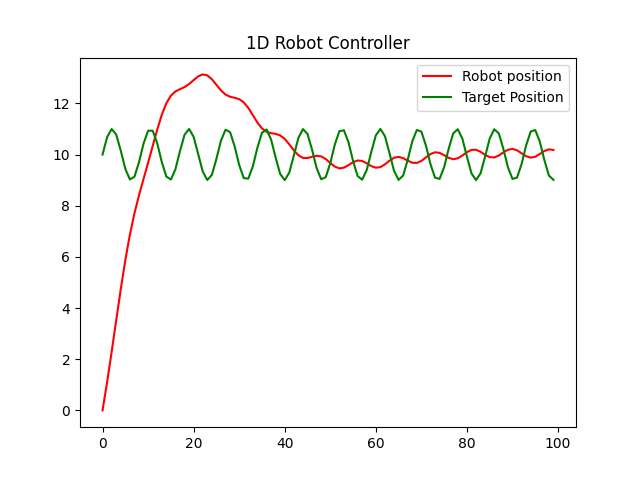
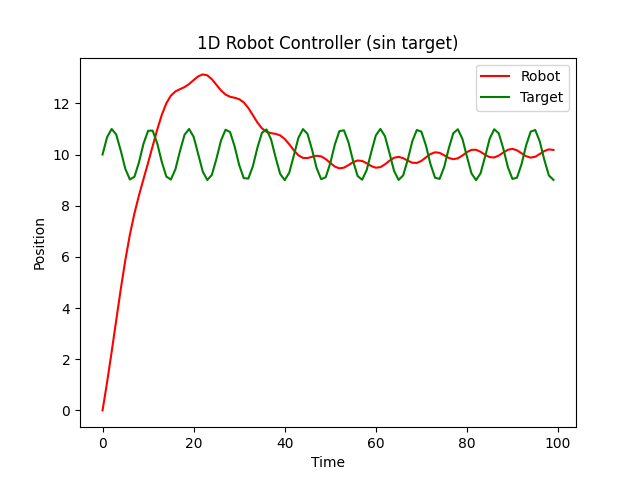
add more description, update pid images to label axes, addd images for politicians and suicide analysis

diff --git a/index.html b/index.html
@@ -13,33 +13,45 @@
             <!-- https://www.delftstack.com/howto/python/python-in-html/ -->
             <p>
                 Hello! I presume you're here to get a sense of who I am as a programmer, and what I've done in my own time. You can probably guess my name. <br><br>
-                I've been programming in Python for several years now, but also have experience in a number of other languages: SQL, Java, Matlab, C, and more recently, Javascript, HTML, and CSS. <br><br>
-                My Bachelor's Degree is in Applied Physics, where I learned to appreciate how the balancing of different effects leads to an observed outcome, and want to explore more in understanding complex systems. Hence, Simulations and Data analysis are two of my major programming interests. 
+                My interests in programming specifically are primarily in understanding and modeling cause and effect, simulating large systems, both of which are often inspired by physics problems, since my educational background is in Applied Physics. 
+                I'm aiming to pursue work in data science and robotics, and am particularly motivated to direct my work towards causes such as healthcare an renewable energy.<br><br>
+                I've been programming in Python for several years now, but also have experience in a number of other languages: SQL, Java, Matlab, C, and more recently, Javascript, HTML, and CSS, mostly for the ability to present information more easily.<br><br>
             </p>
             <span class="social"><a href="https://github.com/bkburgess"><img src="./images/github-mark/github-mark/github-mark-white.png" alt="github icon"></a></span>
             <span class="social"><a href="https://www.linkedin.com/in/bryceburgess/"><img src="./images/LinkedIn-Logos/LinkedIn-Logos/In/Digital/White/2x/In-White-128@2x.png" alt="linkedin icon"></a></span>
             <!--<span class="social"><a href="https://www.kaggle.com/bkburgess"><img src="./images/Kaggle-Logos/kaggle-logo-transparent-300.png" alt="kaggle icon"></a></span>-->
             <div class="project">
-                <h2><a href="https://github.com/bkburgess/BayesianOptimization">Exploratory Optimization</a></h2>
-                <div class="skills">Skills/Technologies: Python</div>
+                <h2></a>Exploratory Optimization</h2>
+                <div class="skills">
+                    Skills/Technologies: Python<br>
+                    Code: <a href="https://github.com/bkburgess/BayesianOptimization">https://github.com/bkburgess/BayesianOptimization</a>
+                </div>
                 <p class="summary">
+                    <p>
+                        I developed exploratory optimization after I was exposed to Bayesian Optimization during my work at Zoox, where BO was used extensively in tuning the hyperparameters for machine learning models.
+                        While working on reimplementing BO myself to better understand it, I was curious about whether I could model the uncertainty using a simple polynomial instead of a statistical spread over several smooth curves.
+                    </p>
                     <img src="images/project_examples/ExploratoryOptimization.png" style="width: 50%" alt="Plot of a complicated smooth curve, with sampled points highlighted, and a curve showing where to search next"><br>
-                    <caption>Example image of what exploratory optimization is doing in one dimension
+                    <caption>
+                        Example image of what exploratory optimization is doing in one dimension
                         The above plot is an example of what it looks like. The red curve is the true line that it's trying to search, and so is unknown to the actual algorithm.
                         The compound blue curve is the acquisition function that it uses to determine where to search next, and the green triangles are the points it has already sampled and adjusted the blue curve to fit.
                         The vertical black line shows where it will make its next guess, determined by the maximum of the acquisition function that isn't already within the samples.
                     </caption>
                     <h3>Bayesian Optimization Overview</h3>
-                    Bayesian Optimization is a search algorithm for finding the best place to sample for an expensive to calculate function. One of the most common applications for this method is in tuning the hyperparameters of machine learning models such as neural networks.
+                    Bayesian Optimization is a search algorithm for finding the best place to sample for an expensive to calculate function. 
+                    One of the most common applications for this method is in tuning the hyperparameters of machine learning models such as neural networks.
                     It usually uses a small sample of points to shepherd a collection tens of distinct smooth curves. 
                     Then for each point in the domain, you calculate the variance in the values given by the curves. 
-                    Because the curves converge at known points, and tend to spread out in between known points, the algorithm can balance prioritizing its search between exploiting the best values found so far, against the value of exploring new areas to gather more information. 
+                    Because the curves converge at known points, and tend to spread out in between known points, the algorithm can balance prioritizing its 
+                    search between exploiting the best values found so far, against the value of exploring new areas to gather more information. 
                     Additionally, this balance can be tuned with a single input parameter.<br>
                     
                     <h3>Exploratory Optimization</h3>
                     The exploratory_opt.py file was inspired by Bayesian Optimization, but instead of calculating the spread of a collection of smooth function, it just fits any one of several convex functions to pass through each pair of adjacent sampled points.
                     The resulting piecewise function can be used to achieve a similar overall result that balances exploiting the best samples found so far against exploring unknown areas, again tunable with a single parameter.
-                    This implementation uses a stand in function for the expensive function that it's supposed to be applied to, by composing several sine waves of different amplitudes and frequencies.
+                    This implementation uses a stand in function for the expensive function that it's supposed to be applied to, by composing several sine waves of different amplitudes and frequencies.<br>
+
 
                     <h3>Further work to do:</h3>
                     <ul>
@@ -57,10 +69,15 @@
                 </p>
             </div>
             <div class="project">
-                <h2><a href="https://github.com/bkburgess/PID">PID Controller</a></h2>
-                <div class="skills">Skills/Technologies: Python</div>
+                <h2>PID Controller</h2>
+                <div class="skills">
+                    Skills/Technologies: Python<br>
+                    Code: <a href="https://github.com/bkburgess/PID">https://github.com/bkburgess/PID</a>
+                </div>
                 <p class="summary">
-                    <!--TODO: how can I get these two images to be placed side by side?  -->
+                    <p>
+                        I've known about PID controllers long before I started implementing them here, as I've been interested in robotics and methods involving coordinating several inputs to guide an output.
+                    </p>
                     <div>
                         <div class="img_float">
                             <img src="images/project_examples/PIDsmack.png" style="width: 100%" alt="Plot showing the 1d position of a robot relative to a stationary target over time, and its recovery from a sudden interference"><br>
@@ -68,16 +85,25 @@
                         <div class="img_float">
                             <img src="images/project_examples/PIDsin.png" style="width: 100%" alt="Plot showing the 1d position of a robot relative to a moving target over time"><br>
                         </div>
+                        <caption>The left figure shows the trajectory of the robot and its response to a sudden impact partway through. The right figure shows how the robot pursues a moving target.</caption>
                     </div>
-                    <caption>The left figure shows the trajectory of the robot and its response to a sudden impact partway through. The right figure shows how the robot pursues a moving target.</caption>
                     <h3>PID Overview</h3>
-                        PID controllers are widely used in robotics, where they can determine how to get the robot, or a part of a robot to the desired state quickly, efficiently, and stably, even in the face of interference and outside forces. The controller determines how much force to apply in which direction. To do this they consist of essentially three parts:<br>
+                    PID controllers are widely used in robotics, where they can determine how to get the robot, or a part of a robot to the desired state quickly, efficiently, and stably, even in the face of interference and outside forces. The controller determines how much force to apply in which direction. To do this they consist of essentially three parts:<br>
 
-                        Proportional - this just measures the difference between where the robot is, and where it's trying to get to, and provides a force proportional to that distance. If this were the only component, then the robot would oscillate around the target point with amplitude equal to the initial difference, rather than stay consistently at or near the target.<br>
-                        Derivative - this measures how much progress the robot has made in each computation cycle, which helps the robot avoid overshooting or oscillating around the target, by providing a slight damping effect proportional to the progress it's already made.<br>
-                        Integrative - this measures how much progress the robot has gone, and is primarily useful for compensating for outside effects like external forces, or changes in the robots mass, which affect the relationship between the robot's force applied and the motion that results. This can sometimes be left out in simpler application<br>
+                    <ul>
+                        <li>
+                            [P]roportional - this just measures the difference between where the robot is, and where it's trying to get to, and provides a force proportional to that distance. If this were the only component, then the robot would oscillate around the target point with amplitude equal to the initial difference, rather than stay consistently at or near the target.<br>
+                        </li>
+                        <li>
+                            [D]erivative - this measures how much progress the robot has made in each computation cycle, which helps the robot avoid overshooting or oscillating around the target, by providing a slight damping effect proportional to the progress it's already made.<br>
+                        </li>
+                        <li>
+                            [I]ntegrative - this measures how much progress the robot has gone, and is primarily useful for compensating for outside effects like external forces, or changes in the robots mass, which affect the relationship between the robot's force applied and the motion that results. This can sometimes be left out in simpler application<br>
+                        </li>
+                    </ul>
 
-                        Each of these components is multiplied by a tuned gain value to determine the influence that they each have on the force applied.
+                    Each of these components is multiplied by a tuned gain value to determine the influence that they each have on the force applied.<br>
+                    <!--TODO: how can I get these two images to be placed side by side?  -->
                     <h3>Further work to do:</h3>
                     <ul>
                         <li>The present version is single dimensional, I'd like to expand it to multiple dimensions, preferably an arbitrary number</li>
@@ -94,20 +120,27 @@
                 </p>
             </div>
             <div class="project">
-                <h2><a href="https://github.com/bkburgess/Epidemiology">Epidemiology</a></h2>
-                <div class="skills">Skills/Technologies: Python</div>
+                <h2>Epidemiology</h2>
+                <div class="skills">
+                    Skills/Technologies: Python<br>
+                    Code: <a href="https://github.com/bkburgess/Epidemiology">https://github.com/bkburgess/Epidemiology</a>
+                </div>
                 <p class="summary">
+                    <p>
+                        I first encountered SIRD modeling from a youtube video, and was interested by the complexity and dynamic properties of this kind of interaction, and as I worked on it, thought of more additional ways to add in the kinds of mechanics that one might see in real life.
+                    </p>
                     <!--TODO: how can I get these two images to be placed side by side?  -->
                     <div>
                         <img src="images/project_examples/SIRD.png" style="width: 50%" alt="Plot showing the status of the population over time during a disease"><br>
                     </div>
                     <caption>Plot showing the status of the population over time during a disease.</caption>
                     <h3>SIRD</h3>
-                        This repository is a place for me to work on epidemiology simulations, primarily centered on using the SIRD model.
+                    This repository is a place for me to work on epidemiology simulations, primarily centered on using the SIRD model.
 
-                        SIRD stands for Susceptible, Infected, Recovered, and Dead. The idea is that the population of a a densely populated area will fall into one of these four categories at any given time, and we can use estimates and heuristics to model how the disease progresses over time.
-                        Further work
+                    SIRD stands for Susceptible, Infected, Recovered, and Dead. The idea is that the population of a a densely populated area will fall into one of these four categories at any given time, and we can use estimates and heuristics to model how the disease progresses over time.
 
+
+                    Further work:
                     <ul>
                         <li>Expand this to consider multiple cities simultaneously with travel between them</li>
                         <li>Consider multiple diseases simultaneously</li>
@@ -123,8 +156,41 @@
                 </p>
             </div>
             <div class="project">
-                <h2><a href="https://github.com/bkburgess/PatientChoice">Patient Choice</a></h2>
-                <div class="skills">Skills/Technologies: Python, Pandas</div>
+                <h2>Politicians' Voting Patterns</h2>
+                <div class="skills">
+                    Skills/Technologies: Python, Pandas, Seaborn, SK-learn, Bokeh, Regex<br>
+                    Code: <a href="https://www.kaggle.com/code/bkburgess/politician-voting-clusters">https://www.kaggle.com/code/bkburgess/politician-voting-clusters</a>
+                </div>
+                <p class="summary">
+                    <img src="images/project_examples/Politicians_116.png" style="width: 50%" alt="Scatterplot of congress members in abstracted voting space"><br>
+                    This is an analysis of how the politicians in the 116th (2019-2021) Congress voted in relation to each other, focusing on issues. I used a dataset of the bills they voted on and how each member voted, which I then
+                    had to exclude all the bills that were regular procedural tasks, rather than bills that affected policy. From there I used Principal Component Analysis to reduce the dimensionality
+                    so that the result could be shown in a 2d plot, and color coded members based on their party affiliation. <br><br>
+                    Further Work:
+                    <ul>
+                        <li>Break down bills by subject</li>
+                        <li>Extend to 3D plot</li>
+                        <li>Repeat for other congresses</li>
+                    </ul>
+                </p>
+            </div>
+            <div class="project">
+                <h2>Exploratory Analysis of Suicide Data</h2>
+                <div class="skills">
+                    Skills/Technologies: Python, Pandas, Seaborn<br>
+                    Code: <a href="https://www.kaggle.com/code/bkburgess/suicide-data-exploratory">https://www.kaggle.com/code/bkburgess/suicide-data-exploratory</a>
+                </div>
+                <p class="summary">
+                    <img src="images/project_examples/SuicidesGDPcapita.png" style="width: 50%" alt="A plot showing that increasing GDP per capita correlates with lower suicide rates"><br>
+                    Exploratory analysis on Kaggle of international suicide rates from 1985-2016 in a Kaggle Notebook
+                </p>
+            </div>
+            <div class="project">
+                <h2>Patient Choice</h2>
+                <div class="skills">
+                    Skills/Technologies: Python, Pandas<br>
+                    Code: <a href="https://github.com/bkburgess/PatientChoice">https://github.com/bkburgess/PatientChoice</a>
+                </div>
                 <p class="summary">
                     This is a project I worked on at TU Berlin, to help the German legislature decide how they might be able to streamline their healthcare system. 
                     I was provided data about individual hospitals, demographic data, and patient healthcare data sourced from health insurance companies in Germany with the goal of estimating what
@@ -133,27 +199,6 @@
                     and insurance network were nonfactors because of the nature of Germany's healthcare system. <br><br>
                     Ultimately, I found that the single most impactful factor was simply the travel time between the patients' home location and the hospital. <br><br>
                     Note that because I was working with very sensitive personal health information, I am not providing any of the data I was using, nor anything that could expose that information.
-                </p>
-            </div>
-            <div class="project">
-                <h2><a href="https://www.kaggle.com/code/bkburgess/politician-voting-clusters">Politicians' Voting Patterns</a></h2>
-                <div class="skills">Skills/Technologies: Python, Pandas, Seaborn</div>
-                <p class="summary">
-                    An analysis of politicians' voting patterns from the 116th congress (2019-2021) using Principal Component Analysis, to see which congress members voted most similarly to each other.
-                </p>
-            </div>
-            <div class="project">
-                <h2><a href="https://www.kaggle.com/code/bkburgess/suicide-data-exploratory">Exploratory Analysis of Suicide Data</a></h2>
-                <div class="skills">Skills/Technologies: Python, Pandas, Seaborn</div>
-                <p class="summary">
-                    Exploratory analysis on Kaggle of international suicide rates from 1985-2016 in a Kaggle Notebook
-                </p>
-            </div>
-            <div class="project">
-                <h2><a href="https://github.com/bkburgess/CraigsListHousingScraper">Configurable Web Scraper for Apartments and Housing</a></h2>
-                <div class="skills">Skills/Technologies: Python, BeautifulSoup, numpy, requests</div>
-                <p class="summary">
-                    Simple web scraper for craigslist to find and extract housing data in a python script
                 </p>
             </div>
             <div class="project">
@@ -171,10 +216,13 @@
                 <p class="summary"></p>
             </div>
             <div class="project">
-                <h2><a href="https://github.com/bkburgess/DragonCurve">Dragon Curve Fractal</a></h2>
-                <div class="skills">Skills/Technologies: Python</div>
-                <img src="images/project_examples/DragonCurve.png" style="width: 50%" alt="The dragon curve fractal"><br>
+                <h2>Dragon Curve Fractal</h2>
+                <div class="skills">
+                    Skills/Technologies: Python<br>
+                    Code: <a href="https://github.com/bkburgess/DragonCurve">https://github.com/bkburgess/DragonCurve</a>
+                </div>
                 <p class="summary">
+                    <img src="images/project_examples/DragonCurve.png" style="width: 50%" alt="The dragon curve fractal"><br>
                     This script generates the dragon fractal, which is the logical extension of folding a piece of paper in half over and over, and then unfurling it
                     so that each of the bends is 90 degrees. To do this, this script encodes directions as a string of numbers, and recurrently duplicates and rotates
                     the string to form a new string which represents the next iteration of the fractal. It finally then needs to decode the resulting string back into 
